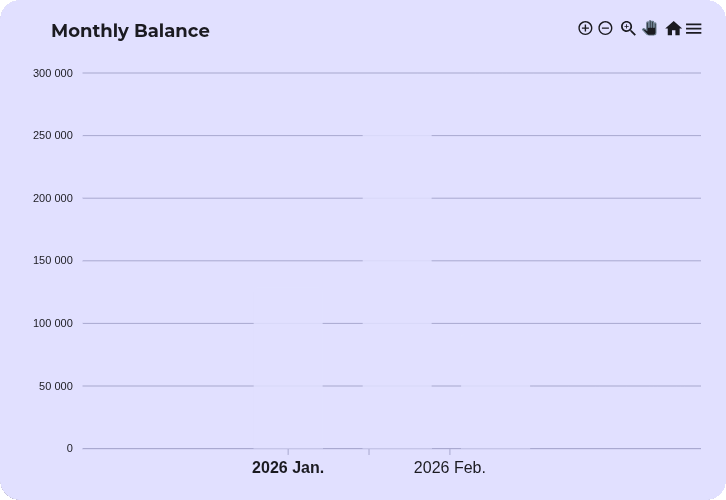
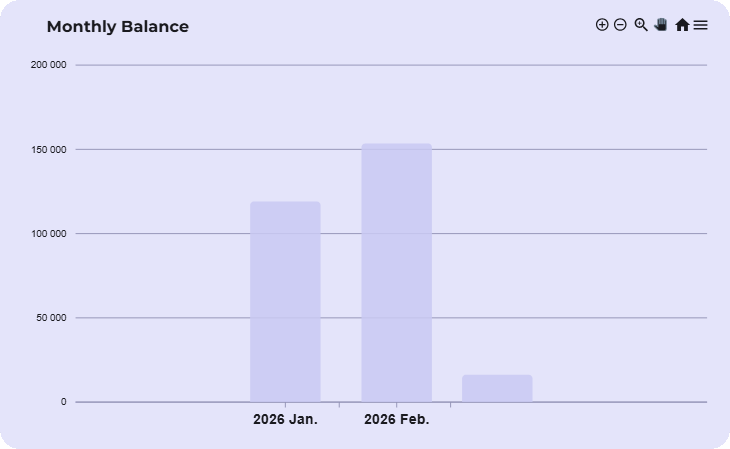
#EX-308: Fix light theme colors

diff --git a/frontend/Exence/src/styles/variables/colors-light.scss b/frontend/Exence/src/styles/variables/colors-light.scss
@@ -8,27 +8,45 @@
 $palettes: (
 	primary: (
 		0: #000000,
-		10: #171838,
-		20: #2c2d4e,
-		25: #37385a,
-		30: #424466,
-		35: #4e4f72,
-		40: #5a5b7f,
-		50: #737499,
-		60: #8d8db4,
-		70: #a8a8cf,
-		80: #c3c3ec,
-		90: #e1e0ff,
-		95: #f1efff,
-		98: #fcf8ff,
-		99: #fffbff,
+		10: #121420,
+		20: #151828,
+		25: #22233a,
+		30: #2e2f46,
+		35: #3a3b52,
+		40: #46455e,
+		50: #5e5e7a,
+		60: #767796,
+		70: #8e8fb2,
+		80: #a6a7ce,
+		90: #c9c9f2,
+		95: #e4e4fa,
+		98: #f6f6fd,
+		99: #fcfcff,
 		100: #ffffff,
 	),
 	secondary: (
+		0: #000103,
+		10: #081a3d,
+		20: #0d285c,
+		25: #143477,
+		30: #1c4193,
+		35: #2852ae,
+		40: #3261c8,
+		50: #4f82ed,
+		60: #75a3ff,
+		70: #9dbdff,
+		80: #c2d6ff,
+		90: #e1edff,
+		95: #f0f6ff,
+		98: #f7faff,
+		99: #fafcff,
+		100: #ffffff,
+	),
+	tertiary: (
 		0: #000000,
 		10: #00210c,
 		20: #003919,
-		25: #00451f,
+		25: #004520,
 		30: #005227,
 		35: #00602e,
 		40: #006d35,
@@ -42,67 +60,49 @@ $palettes: (
 		99: #f5fff2,
 		100: #ffffff,
 	),
-	tertiary: (
-		0: #000000,
-		10: #410005,
-		20: #68000d,
-		25: #7d0012,
-		30: #8e111c,
-		35: #9f1f26,
-		40: #b02c30,
-		50: #d24546,
-		60: #f45e5d,
-		70: #ff8984,
-		80: #ffb3af,
-		90: #ffdad7,
-		95: #ffedeb,
-		98: #fff8f7,
-		99: #fffbff,
-		100: #ffffff,
-	),
 	neutral: (
 		0: #000000,
-		10: #1b1b21,
-		20: #303037,
-		25: #3b3b42,
-		30: #47464d,
-		35: #535159,
-		40: #5f5d65,
-		50: #78767e,
-		60: #928f98,
-		70: #acaab3,
-		80: #c8c5ce,
-		90: #e4e1ea,
-		95: #f3eff8,
-		98: #fcf8ff,
+		10: #1a1a1f,
+		20: #2f2f37,
+		25: #3a3a42,
+		30: #46464e,
+		35: #515159,
+		40: #5d5d65,
+		50: #76767e,
+		60: #909098,
+		70: #ababb3,
+		80: #c6c6ce,
+		90: #e2e2eb,
+		95: #f0f0f9,
+		98: #f9f9ff,
 		99: #fffbff,
 		100: #ffffff,
-		4: #0e0e14,
-		6: #131319,
-		12: #1f1f25,
-		17: #2a2930,
-		22: #35343b,
-		24: #39383f,
-		87: #dcd8e2,
-		92: #eae7f0,
-		94: #f0ecf6,
-		96: #f6f2fb,
+		4: #0e0e13,
+		6: #131318,
+		12: #1f1f24,
+		17: #2a2a2f,
+		22: #35353a,
+		24: #393940,
+		87: #dcdce5,
+		92: #e9e9f2,
+		94: #efeff8,
+		96: #f6f6ff,
 	),
 	neutral-variant: (
 		0: #000000,
-		10: #1b1b22,
-		20: #303037,
-		25: #3b3b42,
+		10: #1a1a1f,
+		20: #2f2f37,
+		25: #3a3a42,
 		30: #46464e,
-		35: #525259,
-		40: #5e5d65,
-		50: #77767e,
-		60: #919098,
-		70: #acaab3,
-		80: #c8c5ce,
-		90: #e4e1eb,
-		95: #f2eff9,
-		98: #fbf8ff,
+		35: #515159,
+		40: #5d5d65,
+		50: #76767e,
+		60: #909098,
+		70: #ababb3,
+		80: #c6c6ce,
+		90: #e2e2eb,
+		95: #f0f0f9,
+		98: #f9f9ff,
 		99: #fffbff,
 		100: #ffffff,
 	),
@@ -112,9 +112,9 @@ $palettes: (
 		20: #690005,
 		25: #7e0007,
 		30: #93000a,
-		35: #a60f13,
-		40: #b81f1e,
-		50: #db3a33,
+		35: #a80710,
+		40: #ba1a1a,
+		50: #de3730,
 		60: #ff5449,
 		70: #ff897d,
 		80: #ffb4ab,
@@ -140,16 +140,16 @@ $neutral-palette: map.merge(map.get($palettes, neutral), $_rest);
 $error-palette: map.merge(map.get($palettes, error), $_rest);
 
 // predefined variables
-$app-card-color-light: map.get($primary-palette, 90);
-$app-background-color-light: map.get($neutral-palette, 96);
+$app-card-color-light: map.get($primary-palette, 95);
+$app-background-color-light: map.get($neutral-palette, 98);
 
 $primary-color-light: map.get($primary-palette, 90);
-$secondary-color-light: map.get($secondary-palette, 80);
+$secondary-color-light: map.get($secondary-palette, 50);
 $tertiary-color-light: map.get($tertiary-palette, 60);
 $app-hover-color-light: map.get($primary-palette, 60);
 
 $shadow-light: map.get($neutral-palette, 40);
-$border-color-light: map.get($primary-palette, 10);
+$border-color-light: map.get($secondary-palette, 90);
 
 $default-text-color-light: map.get($neutral-palette, 10);
 $accent-text-color-light: map.get($neutral-palette, 30);

diff --git a/frontend/Exence/src/app/private/statistics/chart-providers.ts b/frontend/Exence/src/app/private/statistics/chart-providers.ts
@@ -174,6 +174,7 @@ const LineProvider: ProviderFn<SeriesPayload> = (
 	title: string,
 	_settings?: Record<string, unknown>,
 ): ApexOptions => {
+	const fallbackColor = getCssVariableValue('--primary-color');
 	const isSlopeChart = 'series' in data ? false : true;
 	const isMixed = isSlopeChart ? false : (data as SeriesPayload).series.some(si => si.type !== 'line');
 
@@ -195,7 +196,7 @@ const LineProvider: ProviderFn<SeriesPayload> = (
 		}));
 	} else {
 		const payload = data as SeriesPayload;
-		series = payload.series.map(si => ({ ...si, color: si.color ?? 'var(--primary-color)' }));
+		series = payload.series.map(si => ({ ...si, color: si.color ?? fallbackColor }));
 	}
 
 	const yAxisConfig: ApexYAxis | ApexYAxis[] = isMixed
@@ -538,7 +539,7 @@ const RadialBarProvider: ProviderFn<GaugePayload> = (
 			...commonChartOptions.title,
 			text: title,
 		},
-		labels: [title], // TODO should recieve from ChartWidget object (widget.title)
+		labels: [title],
 		plotOptions: {
 			radialBar: {
 				startAngle: -135,
@@ -826,7 +827,7 @@ const RadarProvider: ProviderFn<SeriesPayload> = (
 	} else {
 		series = payload.series.map(si => ({
 			...si,
-			name: new Intl.DateTimeFormat('hu-HU', { year: 'numeric', month: 'short' }).format(new Date(si.name)), // TODO this should be the default after localiszation
+			name: new Intl.DateTimeFormat('hu-HU', { year: 'numeric', month: 'short' }).format(new Date(si.name)), // TODO this should be the default after localization
 		}));
 	}
 
@@ -1004,6 +1005,16 @@ const PolarAreaProvider: ProviderFn<DistributionPayload> = (
 		series: data,
 		colors,
 		labels,
+		plotOptions: {
+			polarArea: {
+				rings: {
+					strokeColor: 'var(--apexchart-grid-color)',
+				},
+				spokes: {
+					connectorColors: 'var(--apexchart-grid-color)',
+				},
+			},
+		},
 		dataLabels: {
 			enabled: true,
 			background: {

diff --git a/frontend/Exence/src/styles/components/apexchart.scss b/frontend/Exence/src/styles/components/apexchart.scss
@@ -95,4 +95,8 @@
 			stroke: var(--apexchart-primary-shade-1);
 		}
 	}
+
+	.apexcharts-radialbar .apexcharts-datalabels-group text.apexcharts-datalabel-label {
+		fill: var(--default-text-color);
+	}
 }
